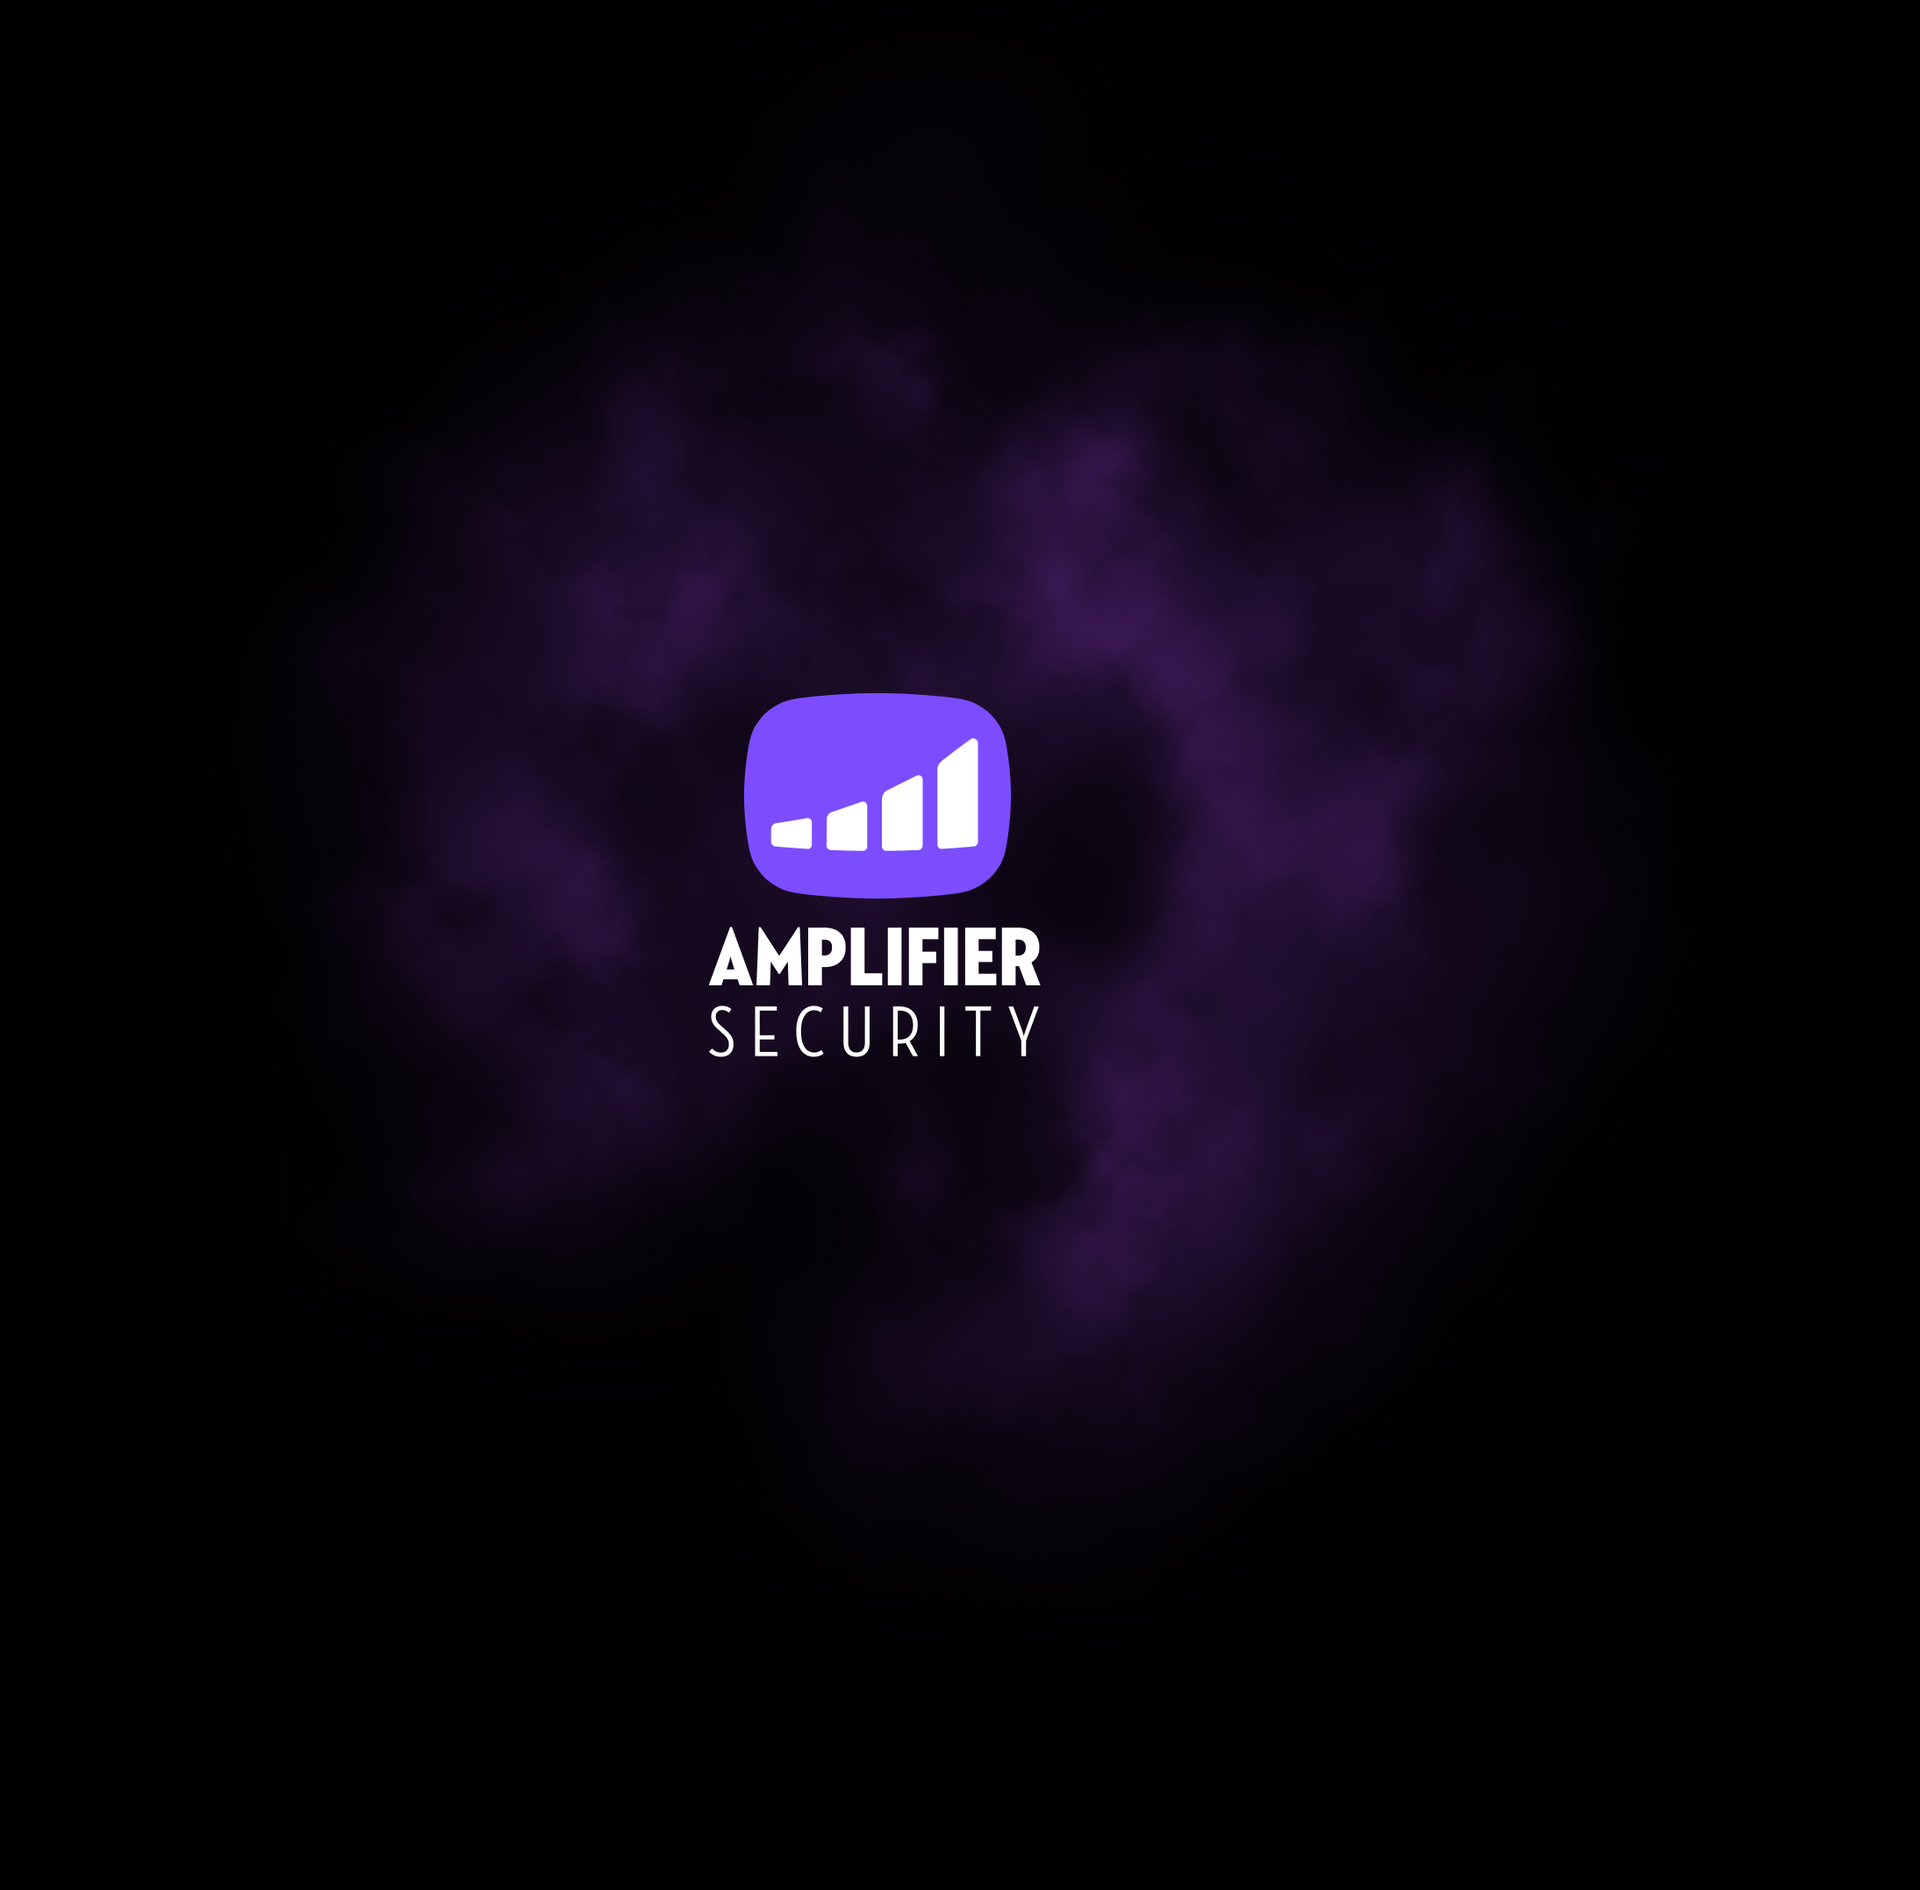
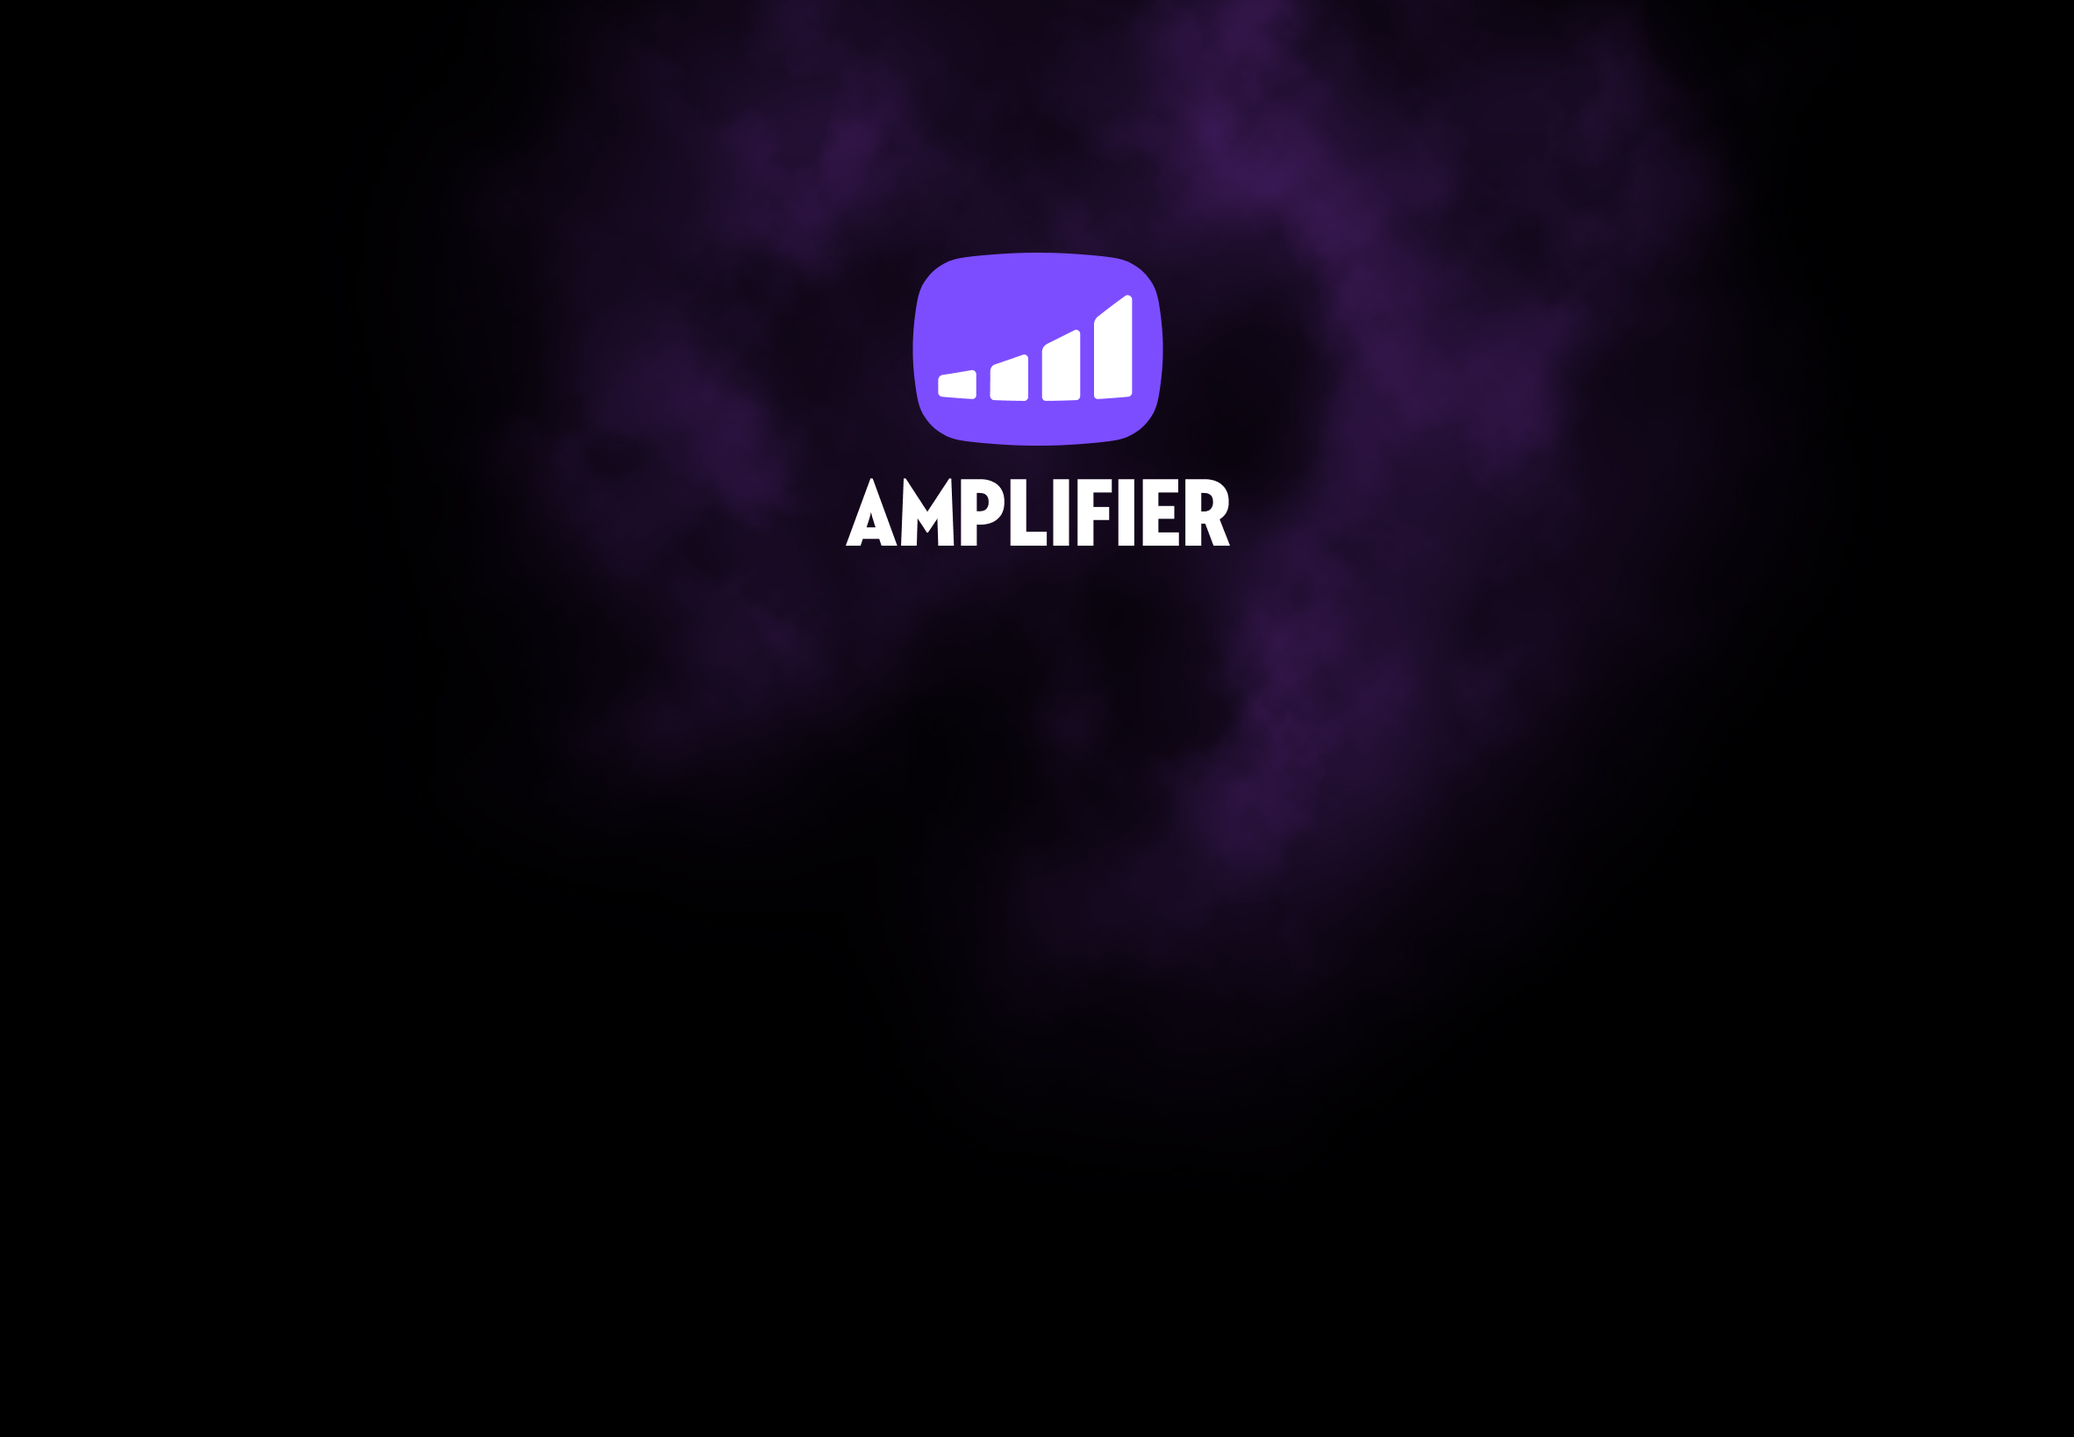
Updates

diff --git a/index.html b/index.html
@@ -9,8 +9,8 @@
 
 <body>
     <div class="container">
-          <img src="/BGImage.jpg" alt="Amplifier Security Logo">
-          <h1>CHANGING WORKPLACE SECURITY</h1>
+          <img class="logo" src="/BGImage.jpg" alt="Amplifier Security Logo">
+          <img class="h1" src="/Headline.svg" alt="Changing Workplace Security">
           <p>We are creating a user-centric self-healing security product that will engage & empower employees to amplify an organization’s security health.<br><br>
             It will harness the power of everyone, the only way to secure today’s modern workplaces.
             <br><br><a href="https://www.google.com">GET IN TOUCH</a></p>

diff --git a/style.css b/style.css
@@ -17,7 +17,7 @@ body{
   }
 
   /* Vertically center the image */
-  .img {
+  .logo {
     display: block;
     margin: 0 auto;
     max-width: 150%;
@@ -29,11 +29,7 @@ body{
   
   /* Style the text in the right column */
   .h1 {
-    font-family: "minion-pro-condensed-display", serif;
-    font-weight: 700;
-    line-height: 0.8;
-    letter-spacing: 0.02em;
-    font-size: 8vw;
+    height: auto;
   }
   
   .p {
